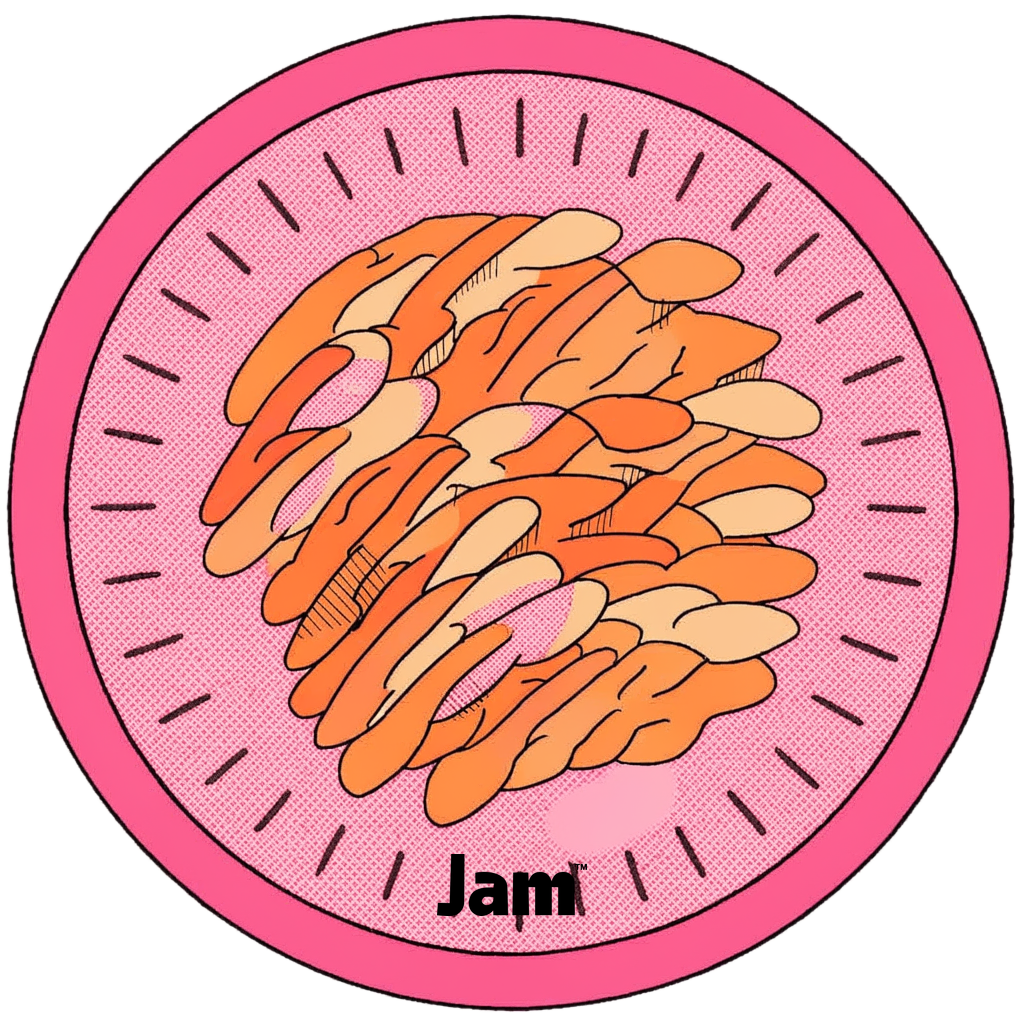
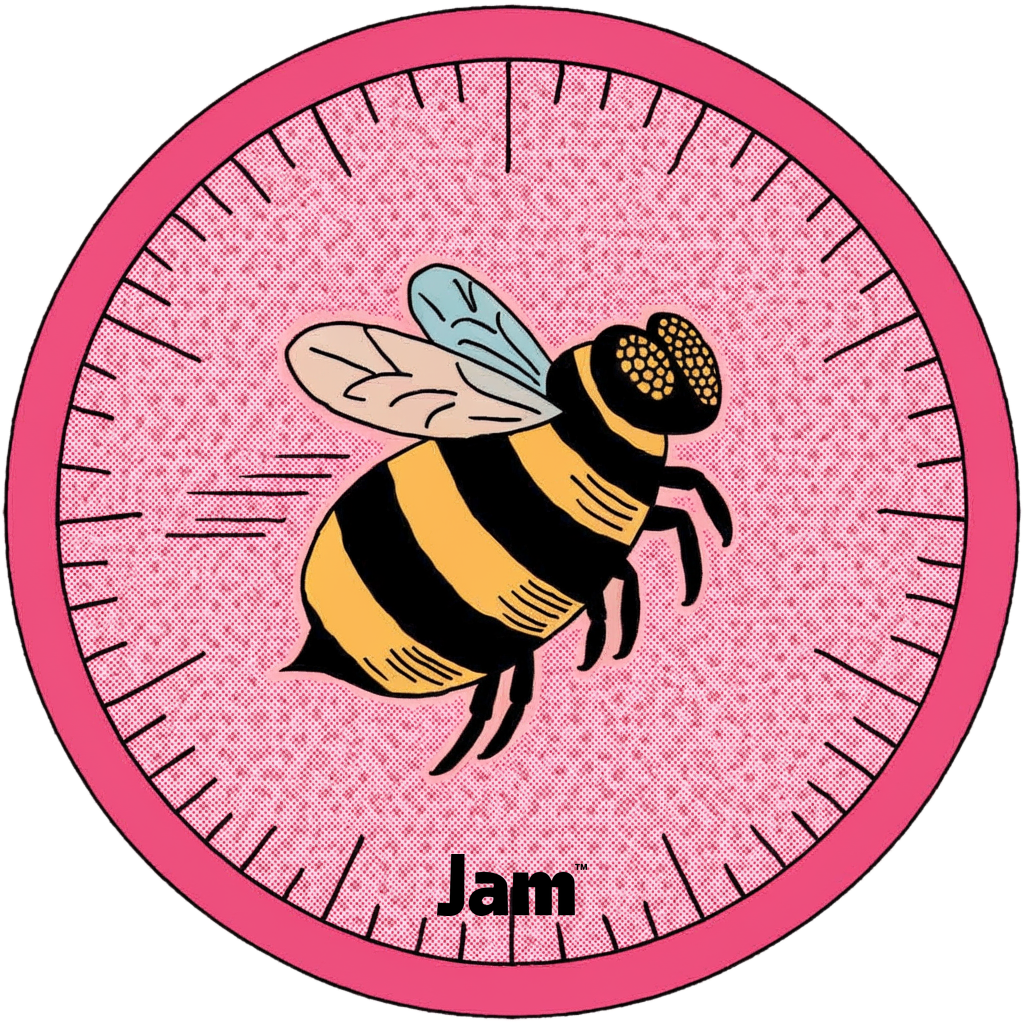
수정: 03 숲속의 갱단 4개 배지 이미지 재생성 — 의미 전달 안 되는 추상 표현을 구체 소재로 교체
프롬프트대로 생성했을 때 소재를 알아볼 수 없다는 피드백에 따라 재생성:
- 03-03_9 길고양이의 하악질 소리: 추상 파동+송곳니 도형 → 화난 길고양이 얼굴
- 03-06_4 들개의 거친 숨소리: 추상 파동 무늬 → 헐떡이는 들개 얼굴
- 03-07_9 꿀벌의 구조요청: 추상 날갯짓 파동 → 꿀벌 개체 직접 표현
- 03-09_5 스마트키 조각: 각진 리모컨 조각 → 열쇠고리 부분만 표현

동물 얼굴 표정은 인간형 감정 표현이 아니라 실제 동물의 사실적 위협/헐떡임 행동이라 기존
의인화 금지 규칙과 상충하지 않음 — 정의서 캐릭터화 규칙에 이 구분을 명시해뒀다.

diff --git a/Service Plan/Assets/IMAGE_PRODUCTION/02_스타일그룹/03 숲속의 갱단/컨텐츠_브리프/03-06 들개의 은밀한 사냥_프롬프트/03-06_4_들개의거친숨소리_프롬프트.md b/Service Plan/Assets/IMAGE_PRODUCTION/02_스타일그룹/03 숲속의 갱단/컨텐츠_브리프/03-06 들개의 은밀한 사냥_프롬프트/03-06_4_들개의거친숨소리_프롬프트.md
@@ -4,4 +4,6 @@
 
 **생성 prompt** (recraftv4_1은 negative_prompt 미지원 — 금지 요소는 본문에 서술)
 
-원형 배지 아이콘. 배지 바깥 사각 캔버스는 완전 투명. 채도 높은 레드 컬러 링 테두리가 배지 외곽을 두르고, 안쪽은 같은 레드 톤의 원형 배경판으로 채워져 있으며, 배경판 가장자리에는 짙은 포레스트 그린 수풀과 다크 브라운 흙길 실루엣이 작게 배치되어 있다. 배경판 중앙에는 짧고 거친 곡선들이 겹겹이 퍼져 나가는 파동 형태로 배치되어 있으며, 낮게 그르렁거리는 숨소리가 울려 퍼지는 순간을 추상적인 파동 무늬로 표현한다. 얼굴이나 신체 형상은 전혀 그리지 않는다. 채색은 플랫 컬러 위주이며 그림자는 소수의 병렬 해칭 선으로만 암시하고, 드롭섀도우나 사실적 그라데이션·사진 같은 질감·3D 렌더링 없이 채도 높고 선명한 톤을 유지한다. 텍스트나 문구는 전혀 넣지 않으며, 의인화된 자세도 그리지 않는다. 원형 배지 프레임을 벗어나 사각 캔버스 구석까지 침범하는 구도, 워터마크·서명·로고도 넣지 않는다.
+원형 배지 아이콘. 배지 바깥 사각 캔버스는 완전 투명. 채도 높은 레드 컬러 링 테두리가 배지 외곽을 두르고, 안쪽은 같은 레드 톤의 원형 배경판으로 채워져 있으며, 배경판 가장자리에는 짙은 포레스트 그린 수풀과 다크 브라운 흙길 실루엣이 작게 배치되어 있다. 배경판 중앙에는 거칠게 숨을 몰아쉬는 들개의 얼굴이 정면을 향해 크게 놓여 있다. 입은 크게 벌어져 혀가 옆으로 늘어져 있고, 날카로운 이빨이 살짝 드러나 있으며, 눈은 가늘게 뜬 채 지친 기색을 담고 있다. 입 주변에는 거친 숨을 표현하는 짧은 곡선 몇 개가 배치되어 있다. 이 표정은 인간적인 감정 표현이 아니라, 실제 개가 격하게 헐떡일 때 짓는 사실적인 얼굴 형태와 자연스러운 동물 행동을 그대로 표현한 것이다. 채색은 플랫 컬러 위주이며 그림자는 소수의 병렬 해칭 선으로만 암시하고, 드롭섀도우나 사실적 그라데이션·사진 같은 질감·3D 렌더링 없이 채도 높고 선명한 톤을 유지한다. 텍스트나 문구는 전혀 넣지 않는다. 원형 배지 프레임을 벗어나 사각 캔버스 구석까지 침범하는 구도, 워터마크·서명·로고도 넣지 않는다.
+
+**2026-09-13 재생성 사유**: 최초 프롬프트(추상적 파동 무늬)가 실제 생성 결과에서 "거친 숨소리"라는 의미를 전달하지 못해, 사용자 요청으로 헐떡이는 들개 얼굴을 직접 표현하는 프롬프트로 교체했다. 인간형 감정 표현이 아니라 사실적인 동물의 헐떡임 표정이므로 의인화 금지 규칙과 상충하지 않는다.

diff --git a/Service Plan/Assets/IMAGE_PRODUCTION/02_스타일그룹/03 숲속의 갱단/컨텐츠_브리프/03-03 골목길 마피아의 회합_프롬프트/03-03_9_길고양이의하악질소리_프롬프트.md b/Service Plan/Assets/IMAGE_PRODUCTION/02_스타일그룹/03 숲속의 갱단/컨텐츠_브리프/03-03 골목길 마피아의 회합_프롬프트/03-03_9_길고양이의하악질소리_프롬프트.md
@@ -4,4 +4,6 @@
 
 **생성 prompt** (recraftv4_1은 negative_prompt 미지원 — 금지 요소는 본문에 서술)
 
-원형 배지 아이콘. 배지 바깥 사각 캔버스는 완전 투명. 핫핑크 컬러 링 테두리가 배지 외곽을 두르고, 안쪽은 핑크 톤 위에 망점(halftone dot) 패턴을 얹은 원형 배경판으로 채워져 있으며, 배경판 가장자리에는 방사형 집중선이 뻗어 있다. 배경판 중앙에는 날카롭게 뾰족한 송곳니 모양의 형태 몇 개가 짧은 파동선에 둘러싸여 배치되어 있으며, 위협적인 경고음이 사방으로 퍼져 나가는 순간을 추상적인 도형으로 표현한다. 얼굴이나 입, 눈 등 신체 형상은 전혀 그리지 않는다. 채색은 플랫 컬러 위주이며 그림자는 소수의 병렬 해칭 선으로만 암시하고, 드롭섀도우나 사실적 그라데이션·사진 같은 질감·3D 렌더링 없이 채도 높고 선명한 톤을 유지한다. 텍스트나 문구는 전혀 넣지 않으며, 의인화된 자세도 그리지 않는다. 원형 배지 프레임을 벗어나 사각 캔버스 구석까지 침범하는 구도, 워터마크·서명·로고도 넣지 않는다.
+원형 배지 아이콘. 배지 바깥 사각 캔버스는 완전 투명. 핫핑크 컬러 링 테두리가 배지 외곽을 두르고, 안쪽은 핑크 톤 위에 망점(halftone dot) 패턴을 얹은 원형 배경판으로 채워져 있으며, 배경판 가장자리에는 방사형 집중선이 뻗어 있다. 배경판 중앙에는 화가 나서 하악질하는 길고양이의 얼굴이 정면을 향해 크게 놓여 있다. 눈은 가늘게 좁아지고 동공이 세로로 날카롭게 서 있으며, 두 귀는 뒤로 납작하게 눕혀져 있다. 입은 크게 벌어져 날카로운 송곳니와 이빨이 드러나 있고, 수염은 사방으로 곤두서 있다. 이 표정은 인간적인 감정 표현이 아니라, 실제 길고양이가 위협할 때 짓는 사실적인 얼굴 형태와 자연스러운 동물 행동을 그대로 표현한 것이다. 채색은 플랫 컬러 위주이며 그림자는 소수의 병렬 해칭 선으로만 암시하고, 드롭섀도우나 사실적 그라데이션·사진 같은 질감·3D 렌더링 없이 채도 높고 선명한 톤을 유지한다. 텍스트나 문구는 전혀 넣지 않는다. 원형 배지 프레임을 벗어나 사각 캔버스 구석까지 침범하는 구도, 워터마크·서명·로고도 넣지 않는다.
+
+**2026-09-13 재생성 사유**: 최초 프롬프트(추상적 파동+송곳니 도형)가 실제 생성 결과에서 "하악질"이라는 의미를 전달하지 못해, 사용자 요청으로 화난 길고양이 얼굴을 직접 표현하는 프롬프트로 교체했다. 인간형 감정 표현이 아니라 사실적인 동물의 위협 표정이므로 의인화 금지 규칙과 상충하지 않는다.

diff --git a/Service Plan/Assets/IMAGE_PRODUCTION/02_스타일그룹/03 숲속의 갱단/컨텐츠_브리프/03-07 도심 숲의 불청객_프롬프트/03-07_9_꿀벌의구조요청_프롬프트.md b/Service Plan/Assets/IMAGE_PRODUCTION/02_스타일그룹/03 숲속의 갱단/컨텐츠_브리프/03-07 도심 숲의 불청객_프롬프트/03-07_9_꿀벌의구조요청_프롬프트.md
@@ -4,4 +4,6 @@
 
 **생성 prompt** (recraftv4_1은 negative_prompt 미지원 — 금지 요소는 본문에 서술)
 
-원형 배지 아이콘. 배지 바깥 사각 캔버스는 완전 투명. 핫핑크 컬러 링 테두리가 배지 외곽을 두르고, 안쪽은 핑크 톤 위에 망점(halftone dot) 패턴을 얹은 원형 배경판으로 채워져 있으며, 배경판 가장자리에는 방사형 집중선이 뻗어 있다. 배경판 중앙에는 작고 빠른 곡선들이 촘촘하게 겹쳐진 날갯짓 파동 무늬가 배치되어 있으며, 다급하게 퍼덕이는 날갯짓의 순간을 추상적으로 표현한다. 얼굴이나 신체 형상은 전혀 그리지 않는다. 채색은 플랫 컬러 위주이며 그림자는 소수의 병렬 해칭 선으로만 암시하고, 드롭섀도우나 사실적 그라데이션·사진 같은 질감·3D 렌더링 없이 채도 높고 선명한 톤을 유지한다. 텍스트나 문구는 전혀 넣지 않으며, 의인화된 자세도 그리지 않는다. 원형 배지 프레임을 벗어나 사각 캔버스 구석까지 침범하는 구도, 워터마크·서명·로고도 넣지 않는다.
+원형 배지 아이콘. 배지 바깥 사각 캔버스는 완전 투명. 핫핑크 컬러 링 테두리가 배지 외곽을 두르고, 안쪽은 핑크 톤 위에 망점(halftone dot) 패턴을 얹은 원형 배경판으로 채워져 있으며, 배경판 가장자리에는 방사형 집중선이 뻗어 있다. 배경판 중앙에는 꿀벌 한 마리만 놓여 있다. 통통한 노랑과 검정 줄무늬 몸통, 투명한 날개 두 쌍, 가느다란 다리와 겹눈을 실제 곤충의 신체 구조에 가깝게 표현하되, 감정을 드러내는 표정이나 인간형 자세·손짓은 그리지 않는다. 몸통이 살짝 기울어진 자세로 다급하게 날아가는 순간의 동세만 짧은 스피드 라인으로 표현한다. 채색은 플랫 컬러 위주이며 그림자는 소수의 병렬 해칭 선으로만 암시하고, 드롭섀도우나 사실적 그라데이션·사진 같은 질감·3D 렌더링 없이 채도 높고 선명한 톤을 유지한다. 텍스트나 문구는 전혀 넣지 않는다. 원형 배지 프레임을 벗어나 사각 캔버스 구석까지 침범하는 구도, 워터마크·서명·로고도 넣지 않는다.
+
+**2026-09-13 재생성 사유**: 최초 프롬프트(추상적 날갯짓 파동 무늬)가 실제 생성 결과에서 "꿀벌"이라는 소재 자체를 알아보기 어려워, 사용자 요청으로 꿀벌 개체 자체를 직접 표현하는 프롬프트로 교체했다.

diff --git a/Service Plan/Assets/IMAGE_PRODUCTION/02_스타일그룹/03 숲속의 갱단/컨텐츠_브리프/03-09 그루터기 살롱의 VIP_프롬프트/03-09_5_스마트키조각_프롬프트.md b/Service Plan/Assets/IMAGE_PRODUCTION/02_스타일그룹/03 숲속의 갱단/컨텐츠_브리프/03-09 그루터기 살롱의 VIP_프롬프트/03-09_5_스마트키조각_프롬프트.md
@@ -4,4 +4,6 @@
 
 **생성 prompt** (recraftv4_1은 negative_prompt 미지원 — 금지 요소는 본문에 서술)
 
-원형 배지 아이콘. 배지 바깥 사각 캔버스는 완전 투명. 핫핑크 컬러 링 테두리가 배지 외곽을 두르고, 안쪽은 핑크 톤 위에 망점(halftone dot) 패턴을 얹은 원형 배경판으로 채워져 있으며, 배경판 가장자리에는 방사형 집중선이 뻗어 있다. 배경판 중앙에는 각진 스마트키 리모컨 조각 하나가 놓여 있고, 한쪽 모서리가 깨져 있다. 채색은 플랫 컬러 위주이며 그림자는 소수의 병렬 해칭 선으로만 암시하고, 드롭섀도우나 사실적 그라데이션·사진 같은 질감·3D 렌더링 없이 채도 높고 선명한 톤을 유지한다. 텍스트나 문구는 전혀 넣지 않으며, 등장하는 동물·사물에는 눈·코·입 등 어떠한 표정이나 의인화된 자세도 그리지 않는다. 원형 배지 프레임을 벗어나 사각 캔버스 구석까지 침범하는 구도, 워터마크·서명·로고도 넣지 않는다.
+원형 배지 아이콘. 배지 바깥 사각 캔버스는 완전 투명. 핫핑크 컬러 링 테두리가 배지 외곽을 두르고, 안쪽은 핑크 톤 위에 망점(halftone dot) 패턴을 얹은 원형 배경판으로 채워져 있으며, 배경판 가장자리에는 방사형 집중선이 뻗어 있다. 배경판 중앙에는 자동차 스마트키의 열쇠고리 부분만 놓여 있다. 둥근 금속 고리에 짧은 가죽 스트랩이 매달려 있는 형태를 사실적으로 표현하며, 버튼이 달린 리모컨 몸체 부분은 등장시키지 않는다. 채색은 플랫 컬러 위주이며 그림자는 소수의 병렬 해칭 선으로만 암시하고, 드롭섀도우나 사실적 그라데이션·사진 같은 질감·3D 렌더링 없이 채도 높고 선명한 톤을 유지한다. 텍스트나 문구는 전혀 넣지 않으며, 등장하는 사물에는 눈·코·입 등 어떠한 표정이나 의인화된 자세도 그리지 않는다. 원형 배지 프레임을 벗어나 사각 캔버스 구석까지 침범하는 구도, 워터마크·서명·로고도 넣지 않는다.
+
+**2026-09-13 재생성 사유**: 최초 프롬프트(각진 리모컨 조각)가 실제 생성 결과에서 "스마트키"라는 소재를 알아보기 어려워, 사용자 요청으로 열쇠고리 부분만 명확히 표현하는 프롬프트로 교체했다.

diff --git a/Service Plan/Assets/IMAGE_PRODUCTION/02_스타일그룹/03 숲속의 갱단/스타일그룹_정의서.md b/Service Plan/Assets/IMAGE_PRODUCTION/02_스타일그룹/03 숲속의 갱단/스타일그룹_정의서.md
@@ -78,8 +78,8 @@
 
 ## 캐릭터화 규칙
 
-- 사물에 눈·표정을 붙이는 스타일인가요? **아니오.** 동물·사물 모두 의인화하지 않는다. 다람쥐·길고양이·너구리·말벌 등 이 트라이브의 주역 동물도 실제 생김새와 자연스러운 동작·자세로만 표현하고, 인간처럼 눈에 감정을 담거나 도구를 쥐는 등의 인격 부여는 하지 않는다.
-- 그렇다면 표정 스타일 참고: 해당 없음.
+- 사물에 눈·표정을 붙이는 스타일인가요? **아니오.** 사물(영수증·표지판·열쇠고리 등)에는 눈·코·입이나 인간형 자세로 인격을 부여하지 않는다.
+- 동물은 어떻게 표현하나요? **인간형 의인화는 금지하되, 동물 자신의 자연스러운 얼굴·표정·행동은 소재의 핵심을 전달하기 위해 필요하면 사실적으로 그릴 수 있다.** 예: 화난 길고양이의 하악질 얼굴(눈 좁힘·귀 눕힘·송곳니 드러냄), 헐떡이는 개의 얼굴(혀를 늘어뜨림)처럼 실제 동물이 짓는 표정·자세는 허용한다. 다만 눈썹을 얹거나 인간처럼 웃는 입매를 그리는 등 사람의 감정 표현 문법을 빌려오는 것, 도구를 손으로 쥐거나 두 발로 서는 등 인간형 자세를 취하게 하는 것은 금지한다. 아이템의 "생성해야 하는 표현"이 얼굴·표정을 요구하지 않는 한(대부분의 아이템은 흔적·사물 중심이므로), 동물 전신이나 얼굴을 굳이 등장시키지 않는다.
 - 사람 모습이 등장해도 되나요? 아니오. 등산객·시민 등 인물은 직접 등장시키지 않고, 가방·영수증·커피컵 같은 소품이나 흔적으로만 존재를 암시한다.
 
 ## 톤 / 다이나믹함
